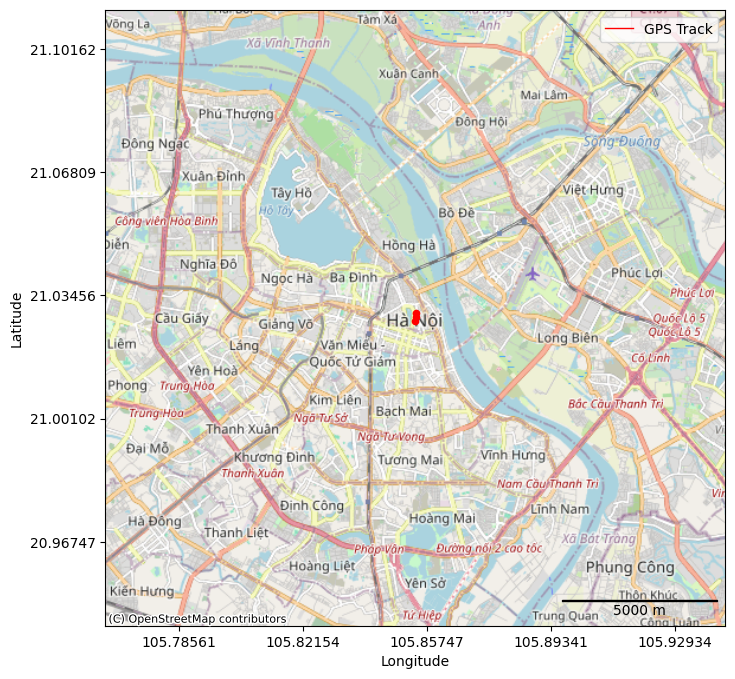
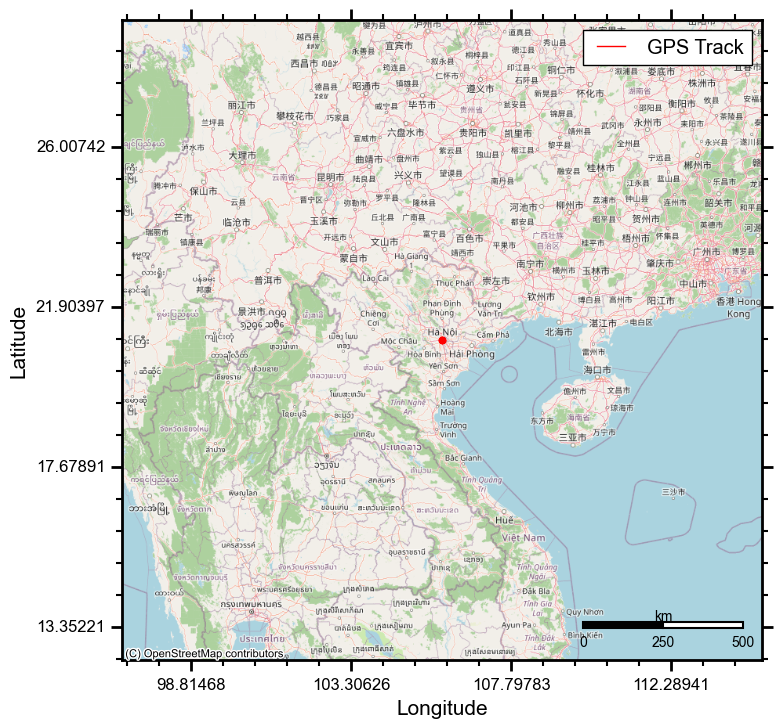
update

diff --git a/map.py b/map.py
@@ -8,9 +8,51 @@ from pyproj import Transformer
 from matplotlib.ticker import MaxNLocator, FuncFormatter
 from mpl_toolkits.axes_grid1.anchored_artists import AnchoredSizeBar
 import matplotlib.font_manager as fm
+from matplotlib.patches import Rectangle
+from matplotlib.patches import Polygon
+
+# Custom settings
+plt.style.use('classic')
+plt.rcParams.update({
+    'figure.dpi': 100,
+    'figure.figsize': (10, 8),
+    'figure.facecolor': 'white',
+    'axes.facecolor': 'white',
+    'axes.edgecolor': 'black',
+    'axes.linewidth': 2,
+    'axes.labelsize': 15,
+    'axes.labelcolor': 'black',
+    'savefig.facecolor': 'white',
+    'font.family': 'sans-serif',
+    'font.sans-serif': ['Arial'],
+    'mathtext.fontset': 'cm',
+
+    'savefig.bbox': 'tight',
+    # Ticks
+    "xtick.direction": "out",
+    "ytick.direction": "out",
+    "xtick.top": True,
+    "ytick.right": True,
+    "xtick.major.size": 8,
+    "ytick.major.size": 8,
+    "xtick.major.width": 2,
+    "ytick.major.width": 2,
+    "xtick.minor.visible": True,
+    "ytick.minor.visible": True,
+    "xtick.minor.size": 4,
+    "ytick.minor.size": 4,
+    "xtick.minor.width": 1.5,
+    "ytick.minor.width": 1.5,
+})
+
+inch = 2.54  # cm per inch
 
 # Hanoi Center Coordinates
 lat_0, lon_0 = 21.0285, 105.8542  
+# lat_0, lon_0 = 48.137154, 11.576124  # Munich Center Coordinates
+
+buffer_x = 1000000  # meters around the point
+buffer_y = 1000000  # meters around the point
 
 
 
@@ -30,19 +72,21 @@ gdf = gpd.GeoDataFrame(geometry=[Point(lon_0, lat_0)], crs="EPSG:4326")
 gdf = gdf.to_crs(epsg=3857)  # Convert to standard web map projection
 
 # 3. Initialize Matplotlib plot
-fig, ax = plt.subplots(figsize=(8, 8), dpi=100)
+
+fig, ax = plt.subplots()
+ax.set_aspect('equal')
 
 
 transformer = Transformer.from_crs("EPSG:3857", "EPSG:4326", always_xy=True)
 
 
 # 4. Set map boundaries (buffer size determines how much of the block is seen)
-buffer = 10000  # meters around the point
-ax.set_xlim(gdf.geometry.x.iloc[0] - buffer, gdf.geometry.x.iloc[0] + buffer)
-ax.set_ylim(gdf.geometry.y.iloc[0] - buffer, gdf.geometry.y.iloc[0] + buffer)
+
+ax.set_xlim(gdf.geometry.x.iloc[0] - buffer_x, gdf.geometry.x.iloc[0] + buffer_x)
+ax.set_ylim(gdf.geometry.y.iloc[0] - buffer_y, gdf.geometry.y.iloc[0] + buffer_y)
 
 # 5. Add the OpenStreetMap background tiles
-zoom = 12
+zoom = 6
 ctx.add_basemap(ax, source=ctx.providers.OpenStreetMap.Mapnik, zoom=zoom)
 
 # Show coordinate ticks in longitude/latitude while keeping the map in Web Mercator.
@@ -65,18 +109,18 @@ ax.yaxis.set_major_formatter(FuncFormatter(format_lat))
 ax.set_xlabel("Longitude")
 ax.set_ylabel("Latitude")
 
-scalebar = AnchoredSizeBar(
-	ax.transData,
-	buffer/2,
-	f"{buffer/2:.0f} m",
-	"lower right",
-	pad=0.5,
-	color="black",
-	frameon=False,
-	size_vertical=20,
-	fontproperties=fm.FontProperties(size=10),
-)
-ax.add_artist(scalebar)
+# scalebar = AnchoredSizeBar(
+# 	ax.transData,
+# 	buffer_x/2,
+# 	f"{buffer_x/2:.0f} m",
+# 	"lower right",
+# 	pad=0.5,
+# 	color="black",
+# 	frameon=False,
+# 	size_vertical=20,
+# 	fontproperties=fm.FontProperties(size=10),
+# )
+# ax.add_artist(scalebar)
 
 # Plot GPS track/points if data was loaded
 gps_gdf = gpd.GeoDataFrame(geometry=gpd.points_from_xy(GPS_lon, GPS_lat), crs="EPSG:4326")
@@ -85,9 +129,75 @@ gps_gdf = gps_gdf.to_crs(epsg=3857)
 ax.plot(gps_gdf.geometry.x, gps_gdf.geometry.y, color="red", linewidth=1, label="GPS Track")
 # Plot points
 ax.scatter(gps_gdf.geometry.x, gps_gdf.geometry.y, color="red", s=20)
+
+
+def add_fancy_scalebar(ax, length, location,
+                       height, linewidth,
+                       text_offset):
+    """
+    length: total scale bar length in map units (meters)
+    location: axes fraction coordinates (x,y)
+    """
+
+    # Convert axes fraction to data coordinates
+    xlim = ax.get_xlim()
+    ylim = ax.get_ylim()
+
+    x0 = xlim[0] + location[0] * (xlim[1] - xlim[0])
+    y0 = ylim[0] + location[1] * (ylim[1] - ylim[0])
+
+    segment = length / 2
+
+    # Left segment (black)
+    ax.add_patch(Rectangle(
+        (x0, y0),
+        segment,
+        height,
+        facecolor='black',
+        edgecolor='black',
+        linewidth=linewidth,
+        zorder=100
+    ))
+
+    # Right segment (white)
+    ax.add_patch(Rectangle(
+        (x0 + segment, y0),
+        segment,
+        height,
+        facecolor='white',
+        edgecolor='black',
+        linewidth=linewidth,
+        zorder=100
+    ))
+
+    # Labels
+    ax.text(x0, y0 - text_offset, "0",
+            ha='center', va='top', fontsize=10)
+
+    ax.text(x0 + segment, y0 - text_offset,
+            f"{segment/1000:g}",
+            ha='center', va='top', fontsize=10)
+
+    ax.text(x0 + length, y0 - text_offset,
+            f"{length/1000:g}",
+            ha='center', va='top', fontsize=10)
+
+    ax.text(x0 + segment, y0 + 3*text_offset,
+            "km",
+            ha='center', va='top', fontsize=10)
+
+add_fancy_scalebar(
+    ax,
+    length=buffer_x/2,  # 10 km total
+    location=(0.72, 0.05),
+    height=buffer_y/50,  # 1% of the y-range
+    linewidth=1.5,
+    text_offset=buffer_y/50  # 2% of the y-range
+)
+
+
+
 ax.legend()
-
-
 
 plt.savefig("map.png", bbox_inches="tight")
 plt.show()